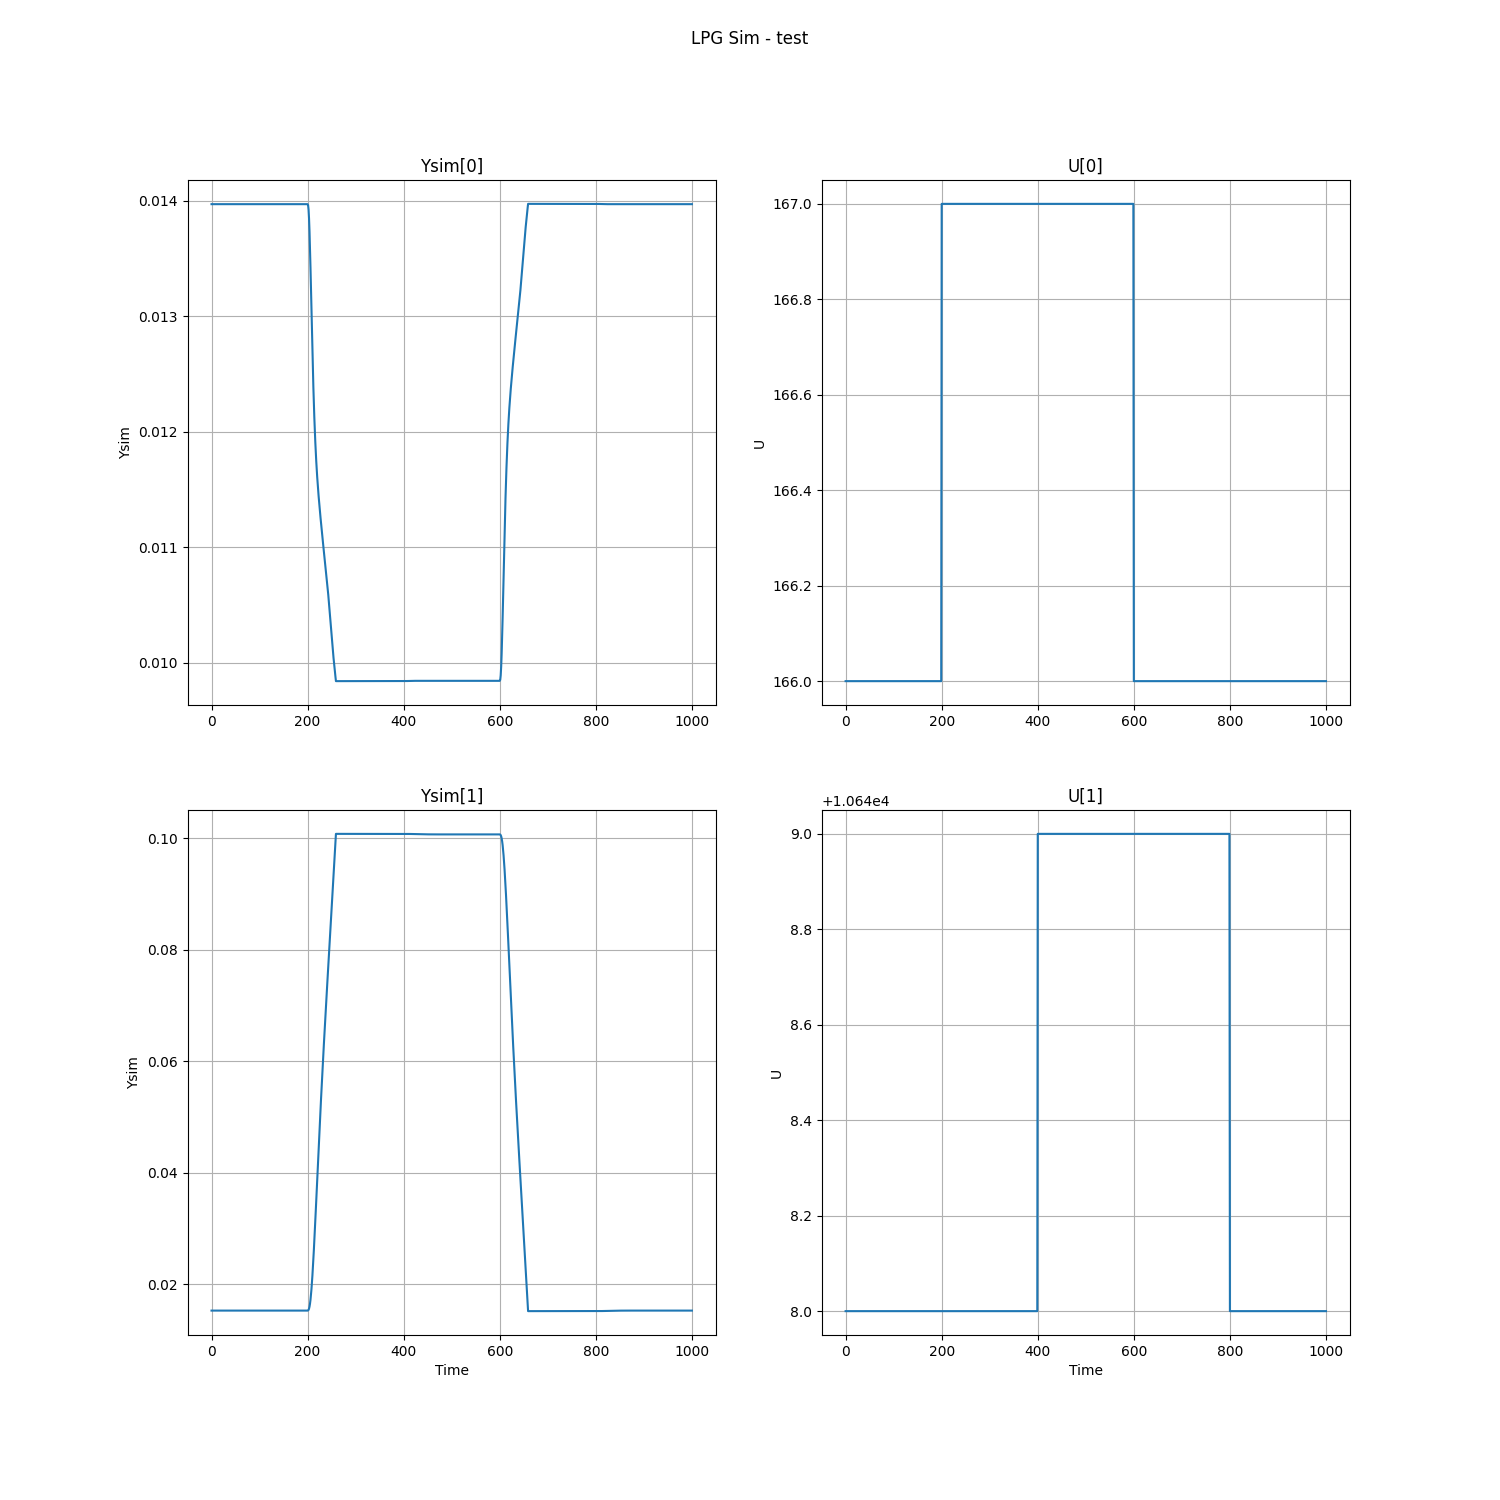
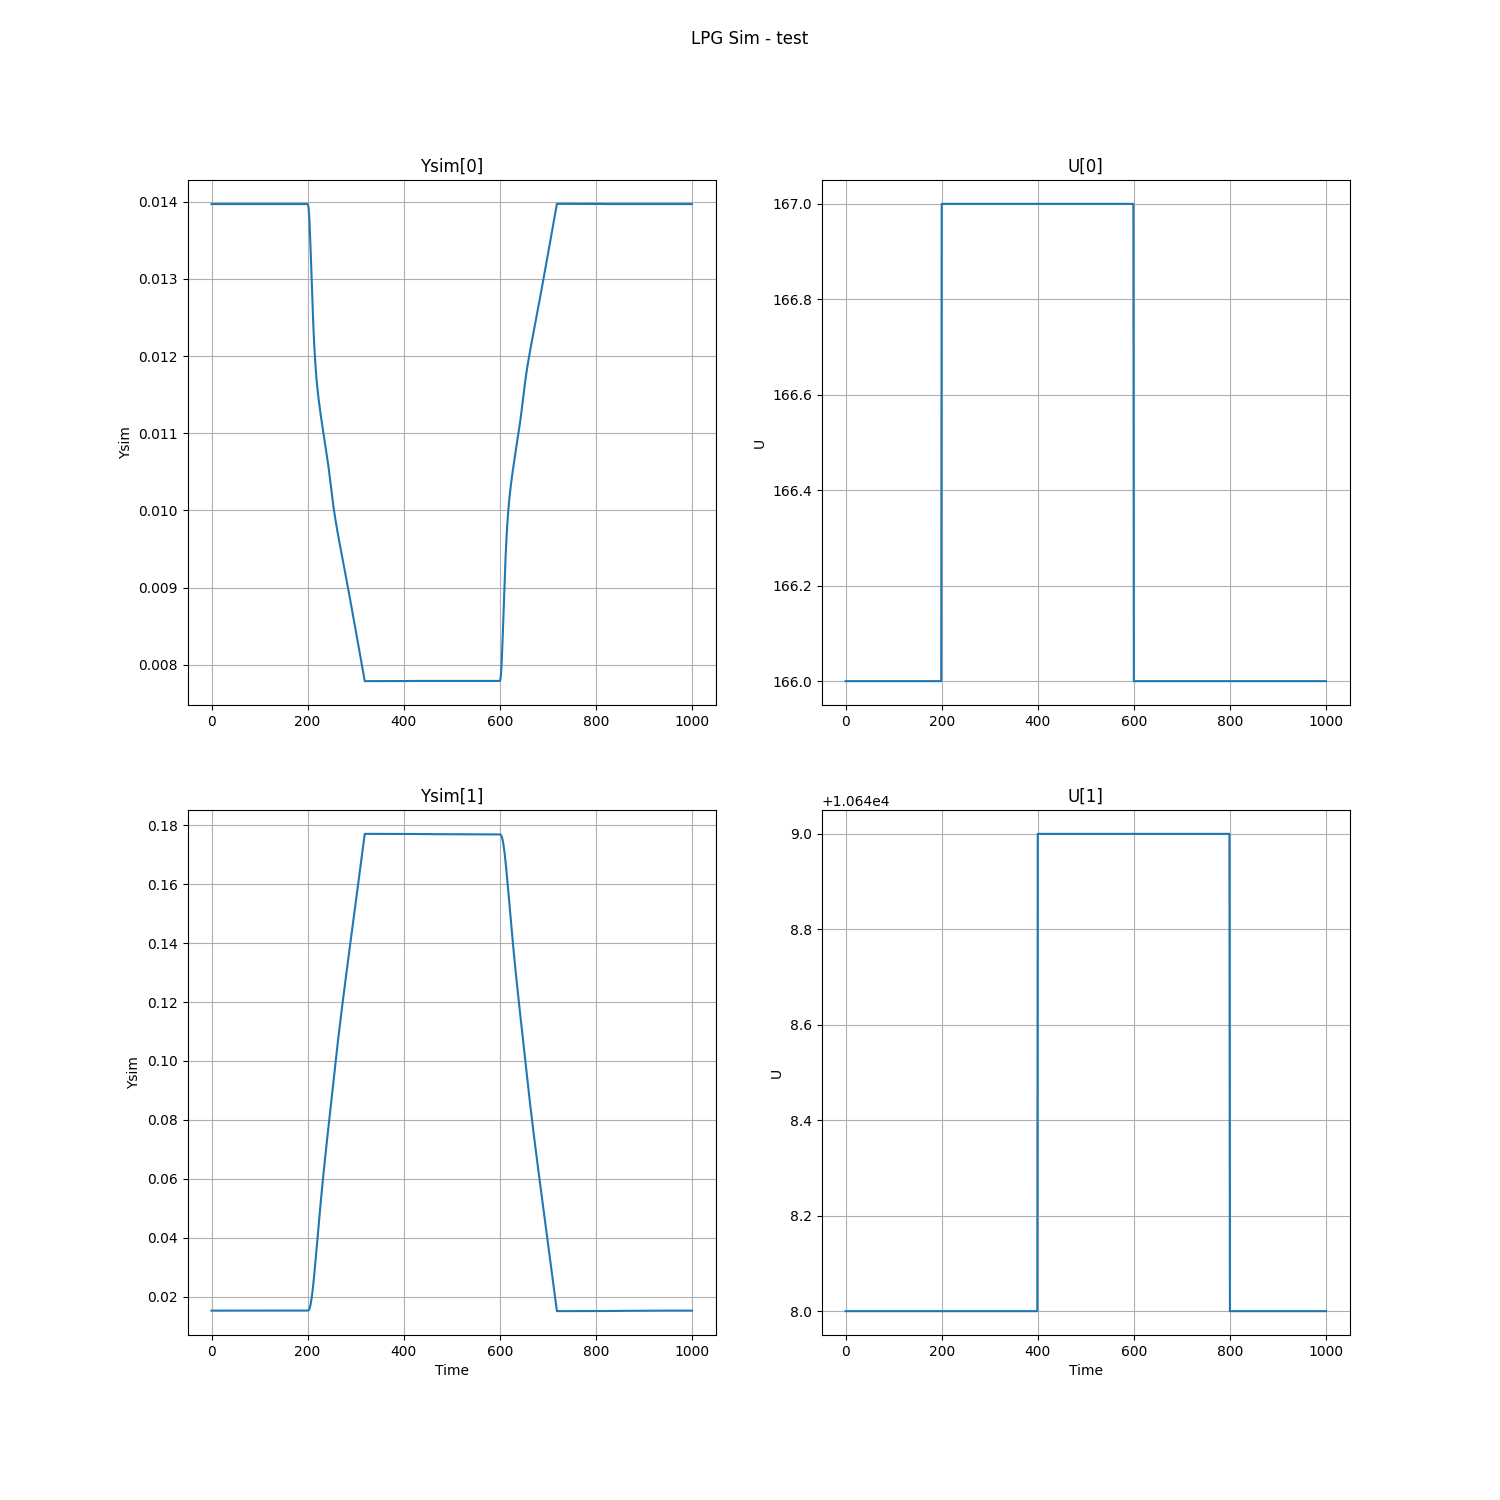
why?

diff --git a/00-LPGdebutanizerUnitStepCalc.py b/00-LPGdebutanizerUnitStepCalc.py
@@ -4,7 +4,7 @@ from src.StepCalc import *
 import joblib
 
 NUMBER_OF_INPUTS = 2
-RESPONSE_SIZE = 60
+RESPONSE_SIZE = 120
 
 # Step 1: Read the CSV file
 df = pd.read_csv('LPGdesbutanizerStepTest.csv', delimiter=";", index_col=0)
